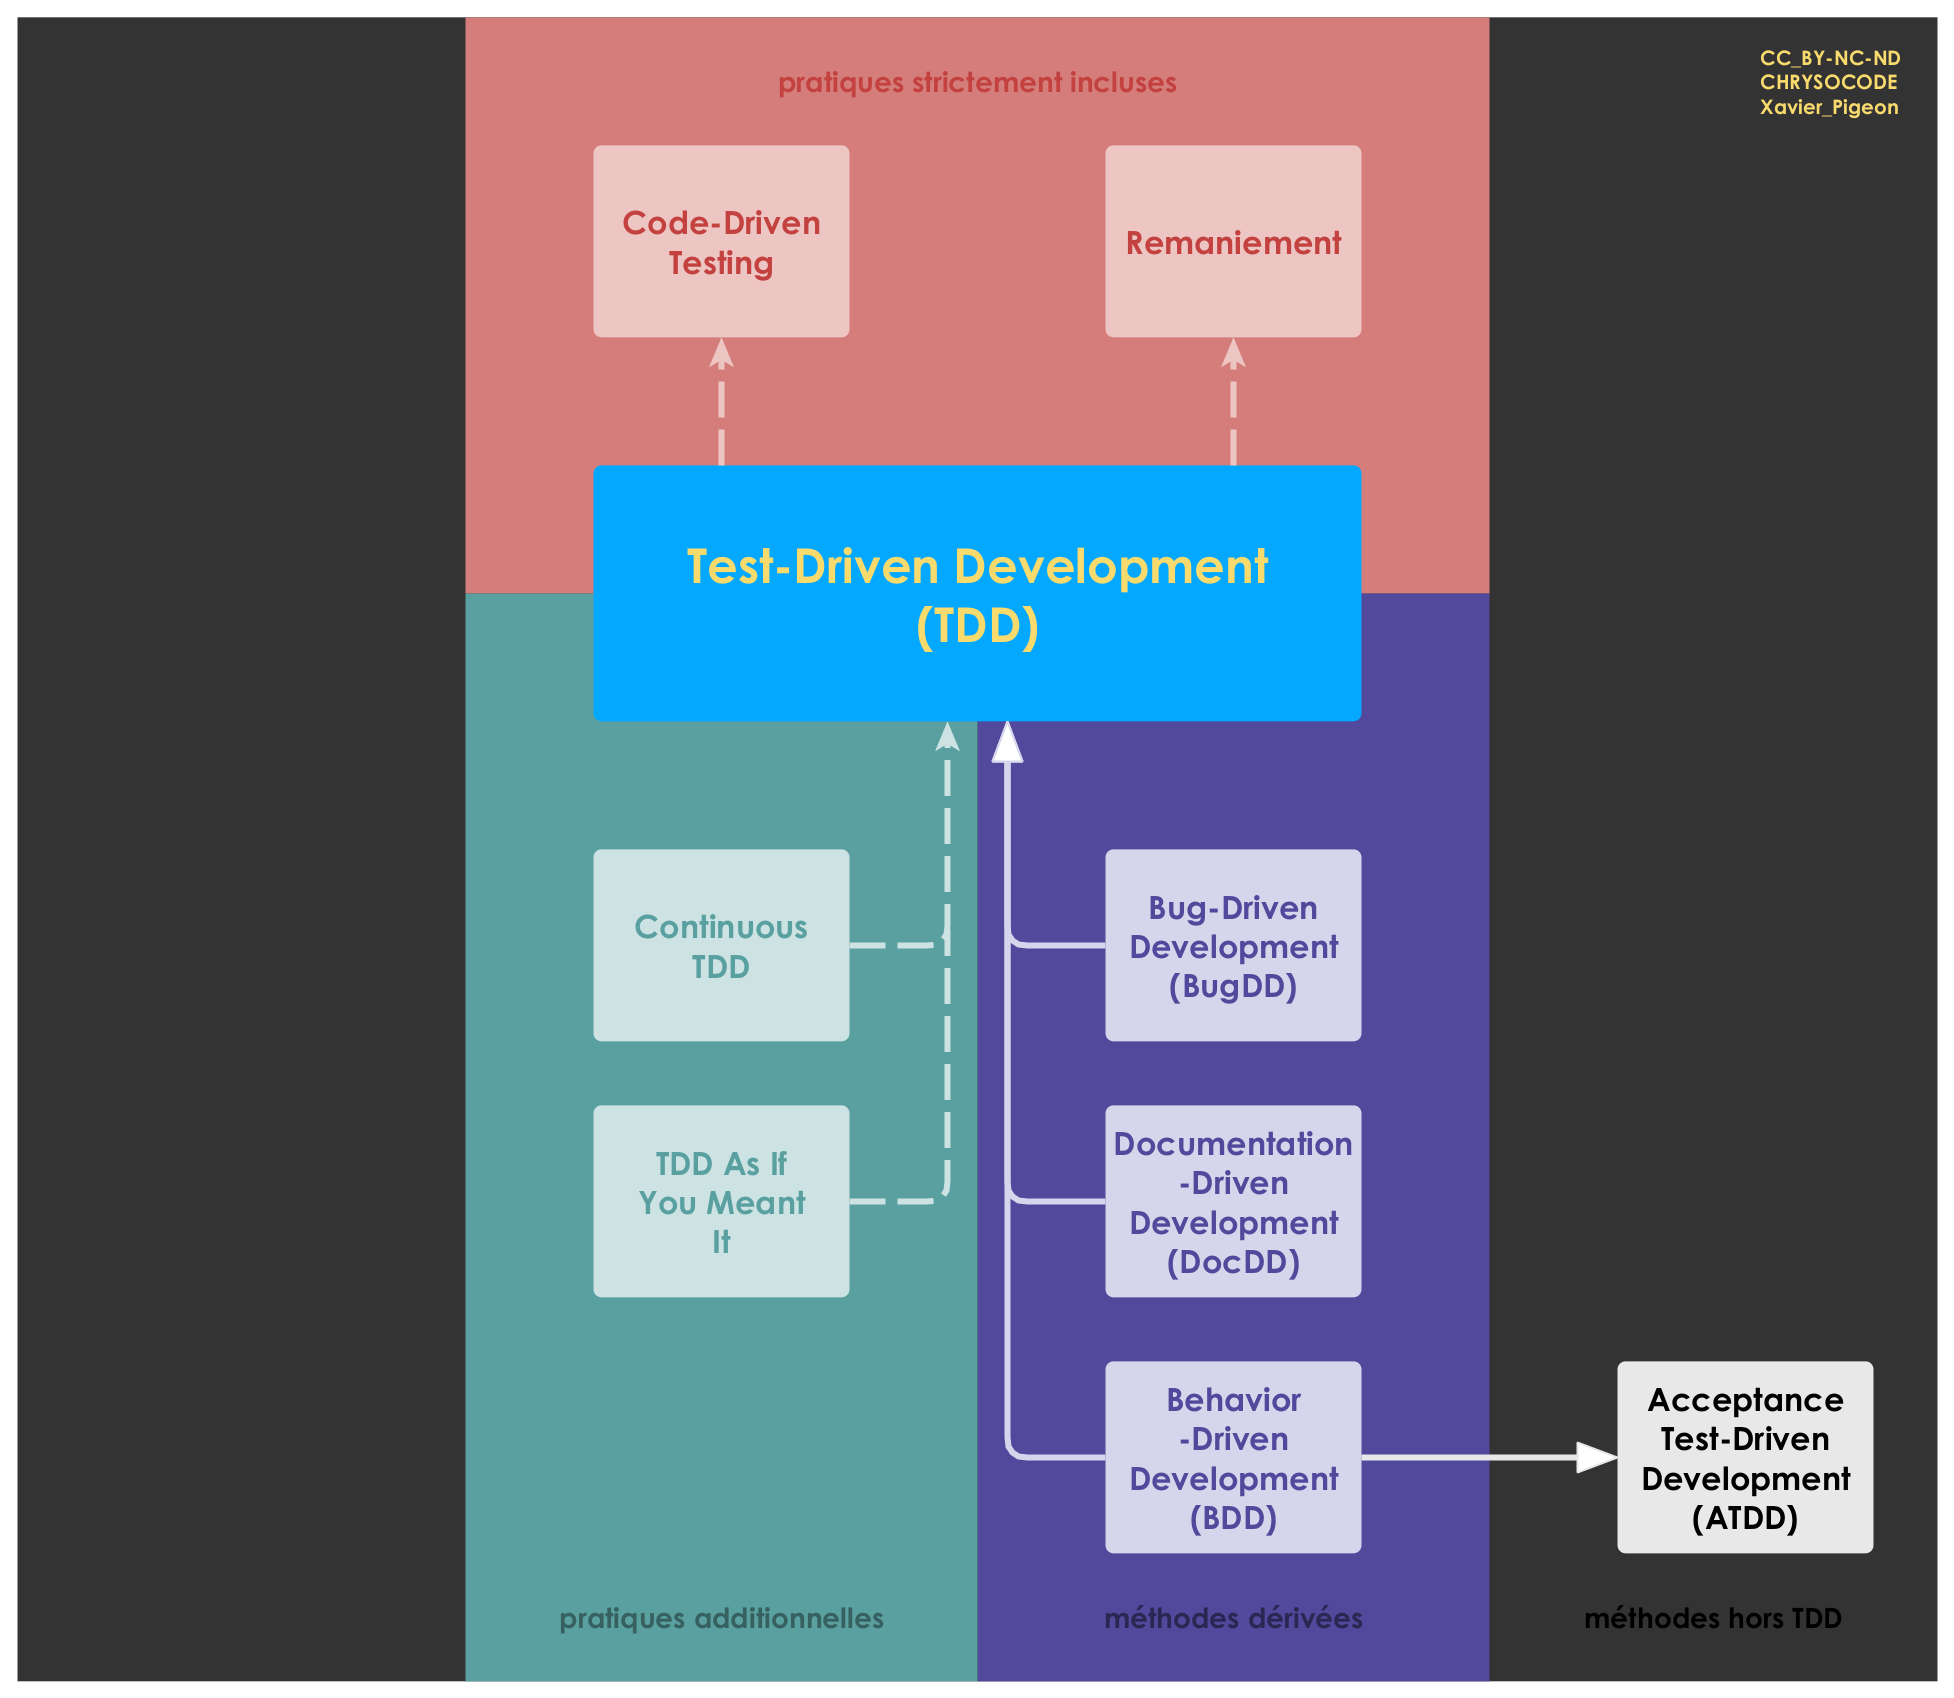
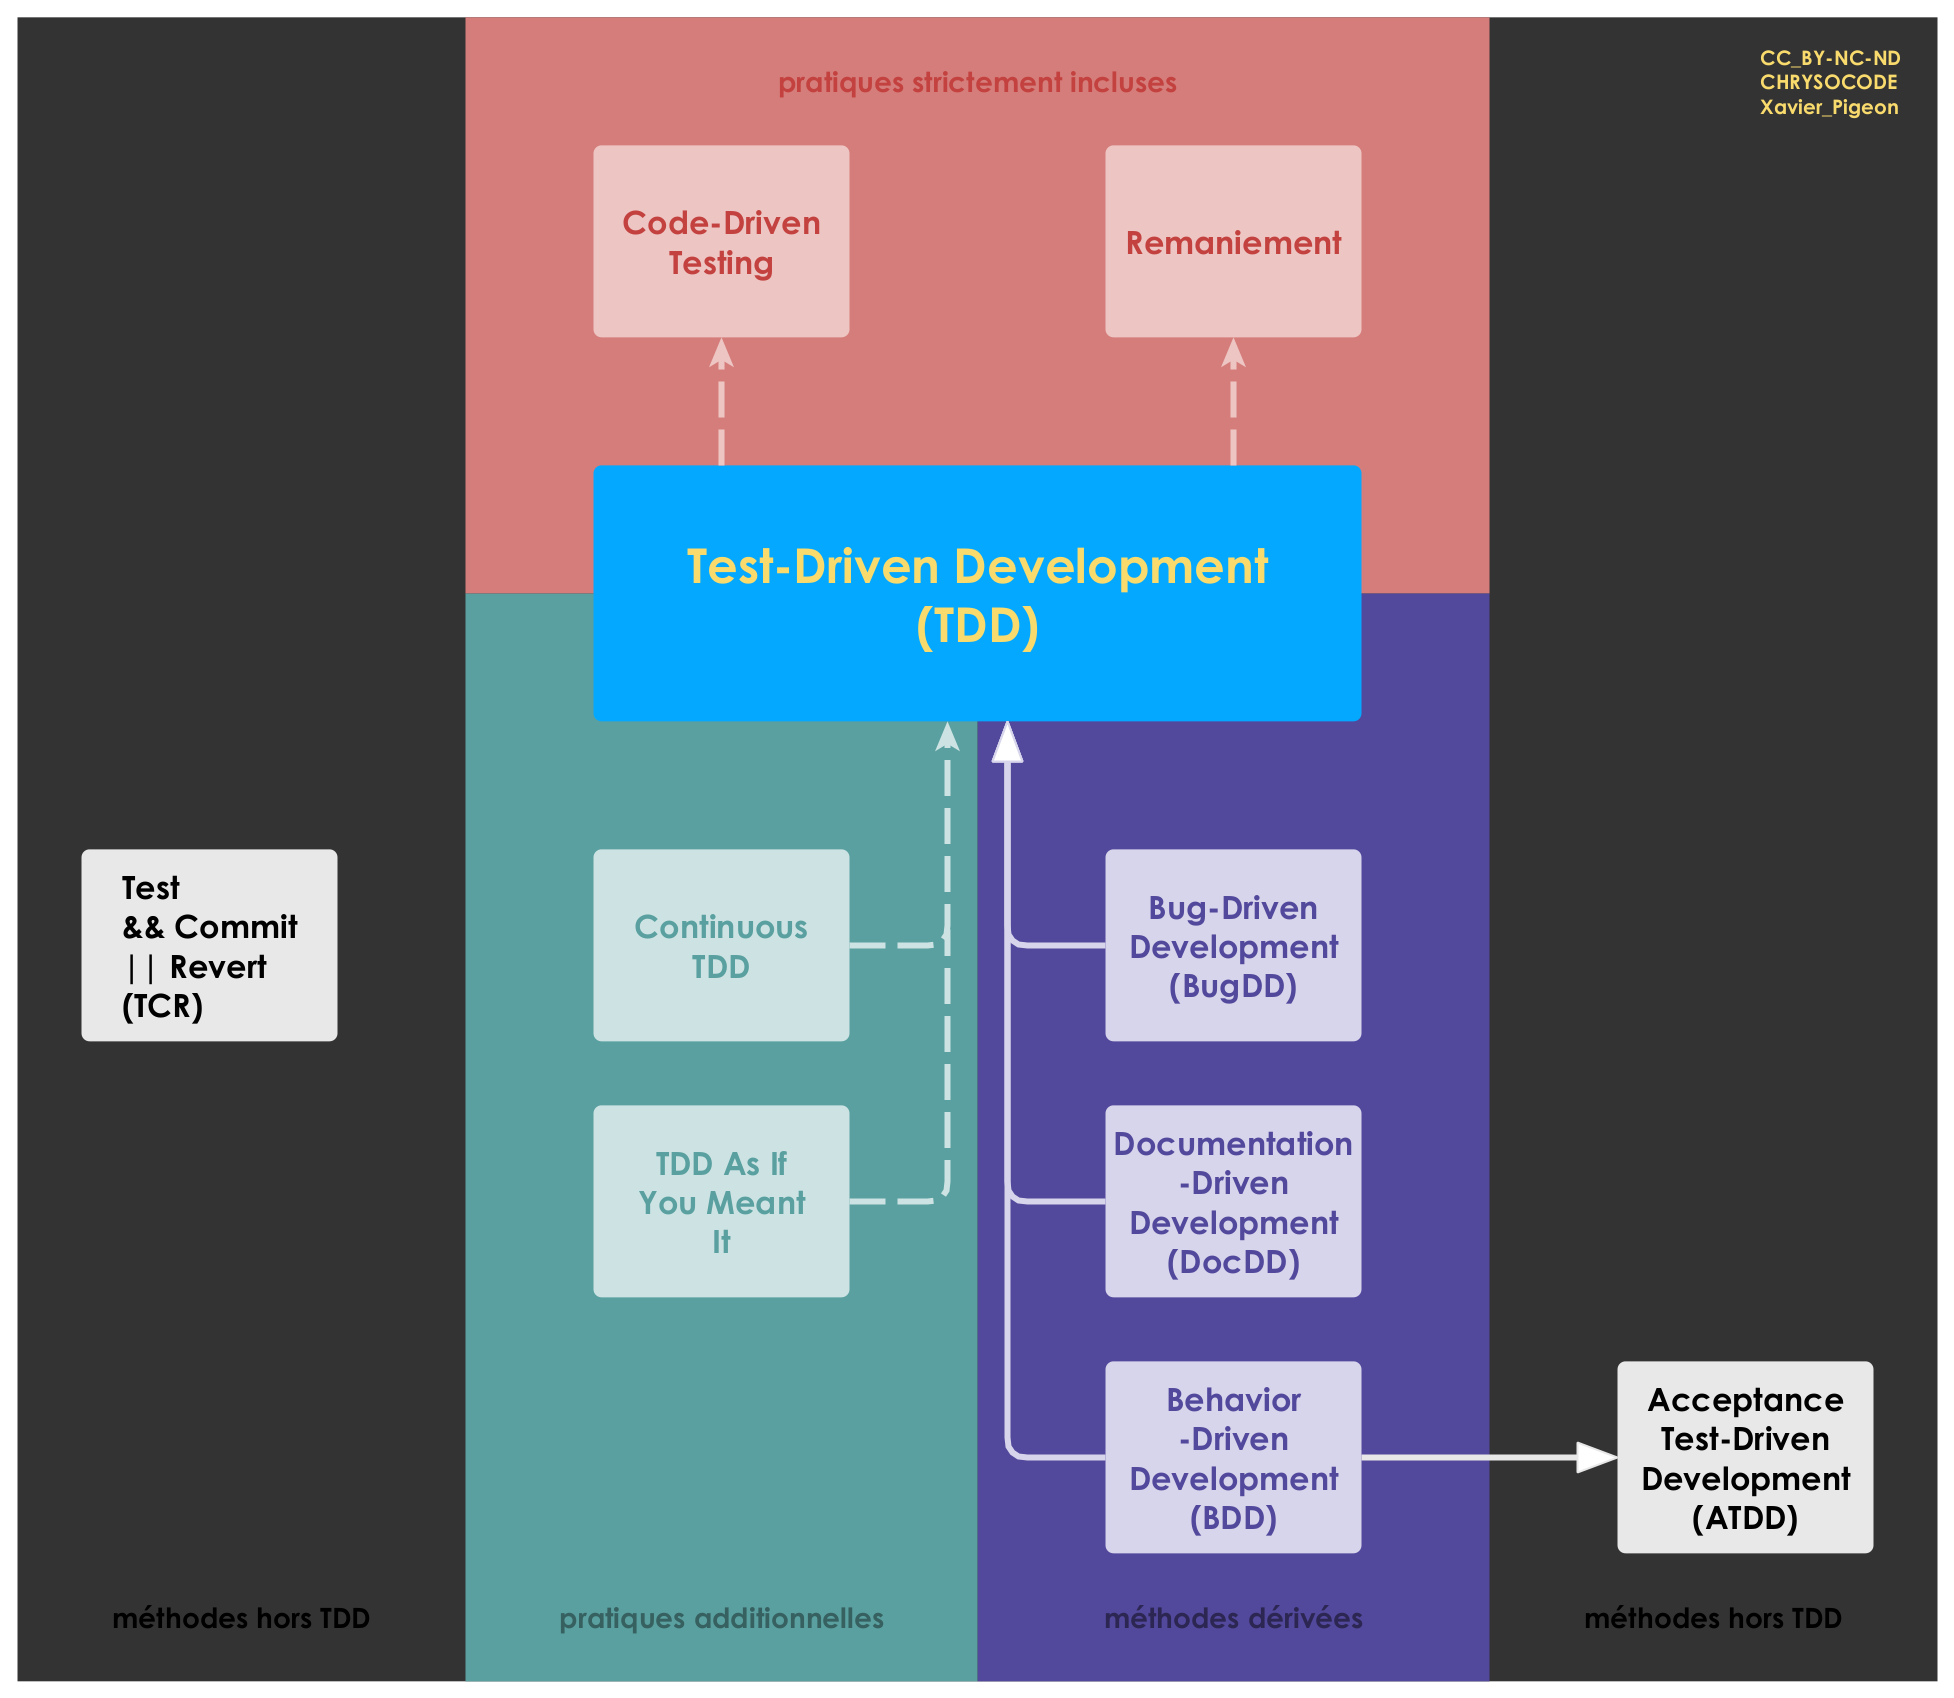
Méthodes hors TDD

Changed region(s): [[0.0312, 0.4994, 0.1873, 0.6243], [0.0624, 0.9364, 0.1873, 0.9676]]

diff --git a/README.md b/README.md
@@ -68,7 +68,10 @@ Le micro-cycle de TDD se divise en deux nano-cycles : un nano-cycle de *Code-Dri
 - Méthodes dérivées de TDD
   - *Bug-Driven Development*
   - *Documentation-Driven Development*
-  - *Behavior-Driven Development* (BDD), qui dérive à la fois de TDD et d'ATDD (*Acceptance-Driven Development*).
+  - *Behavior-Driven Development* (BDD), qui dérive à la fois de TDD et d'ATDD.
+- Méthodes hors TDD
+  - *Acceptance-Driven Development*
+  - *Test && Commit \|\| Revert* (TCR)
 
 ![TDD : pratiques et extensions](ressources/schemas/tdd_inheritance__fr.png)
 
